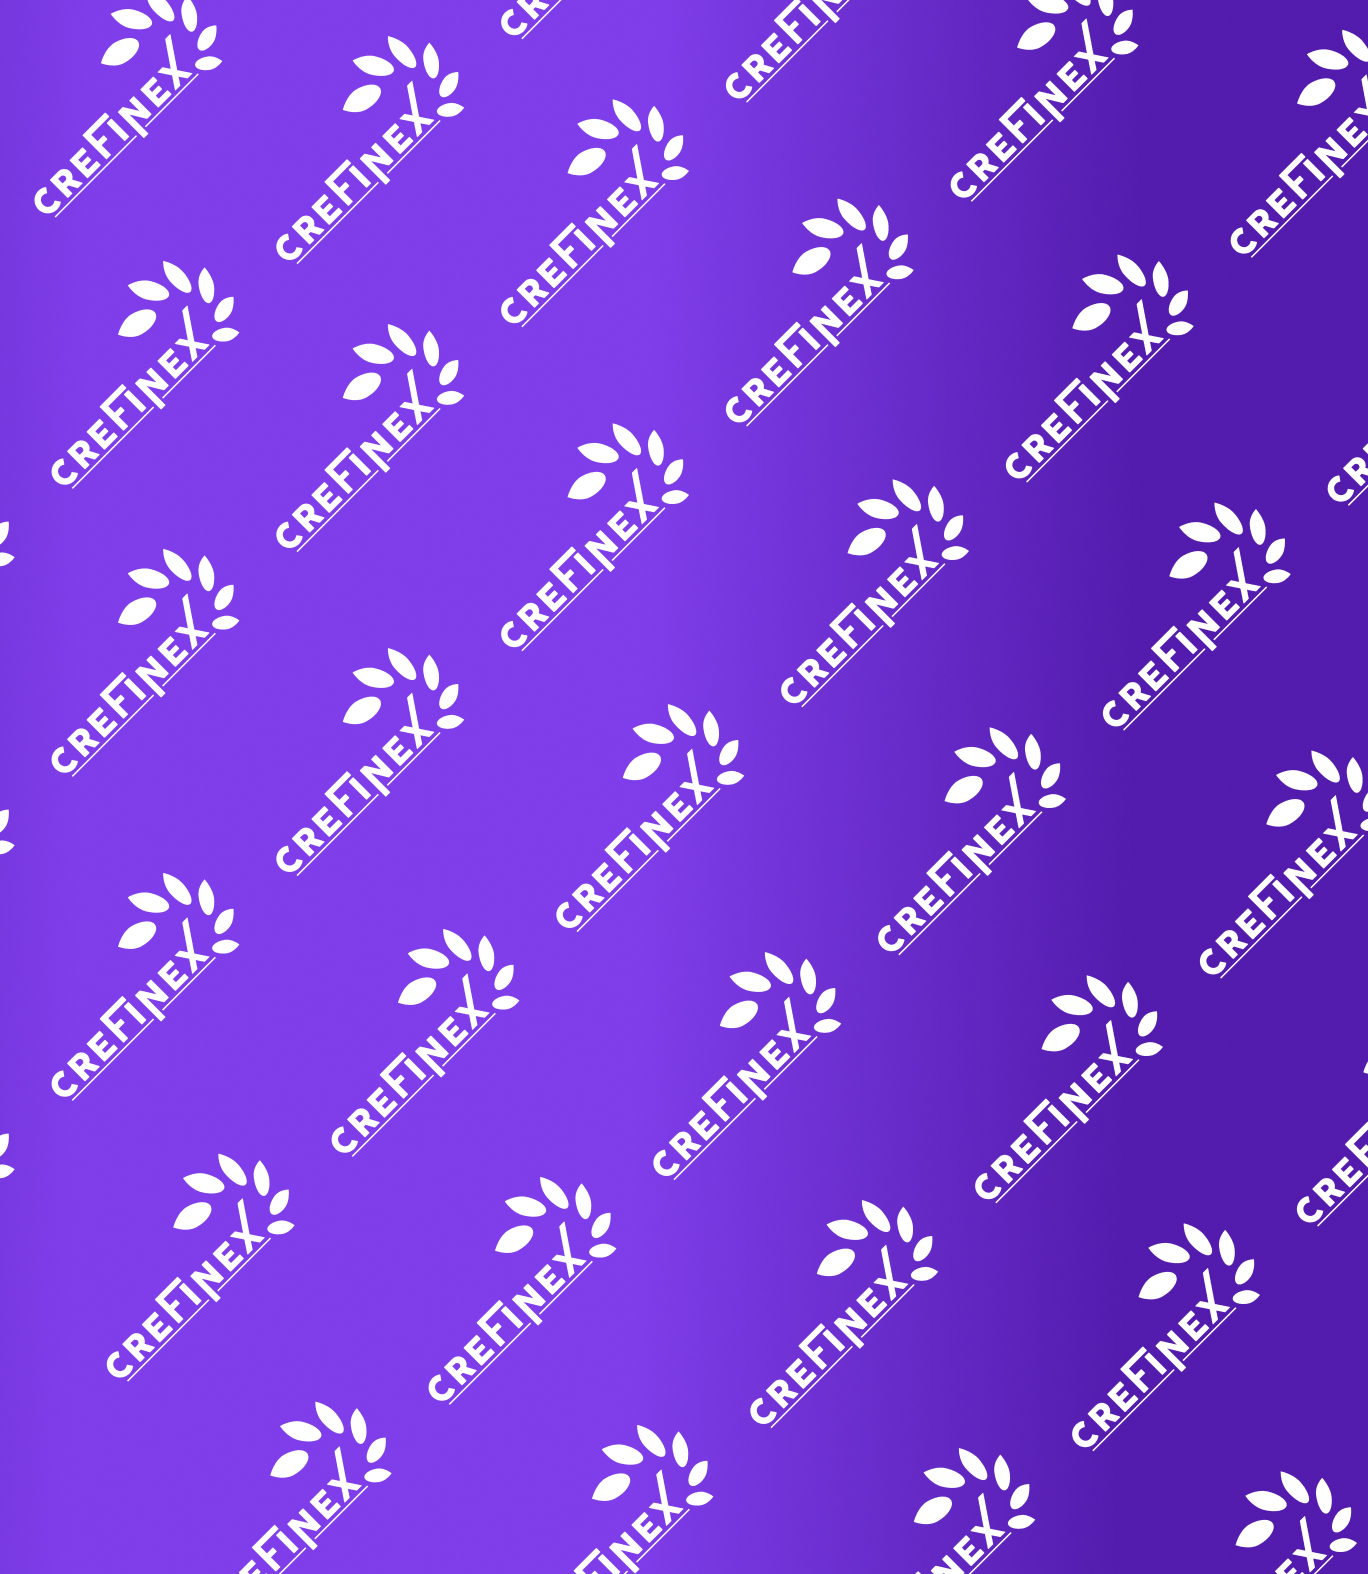
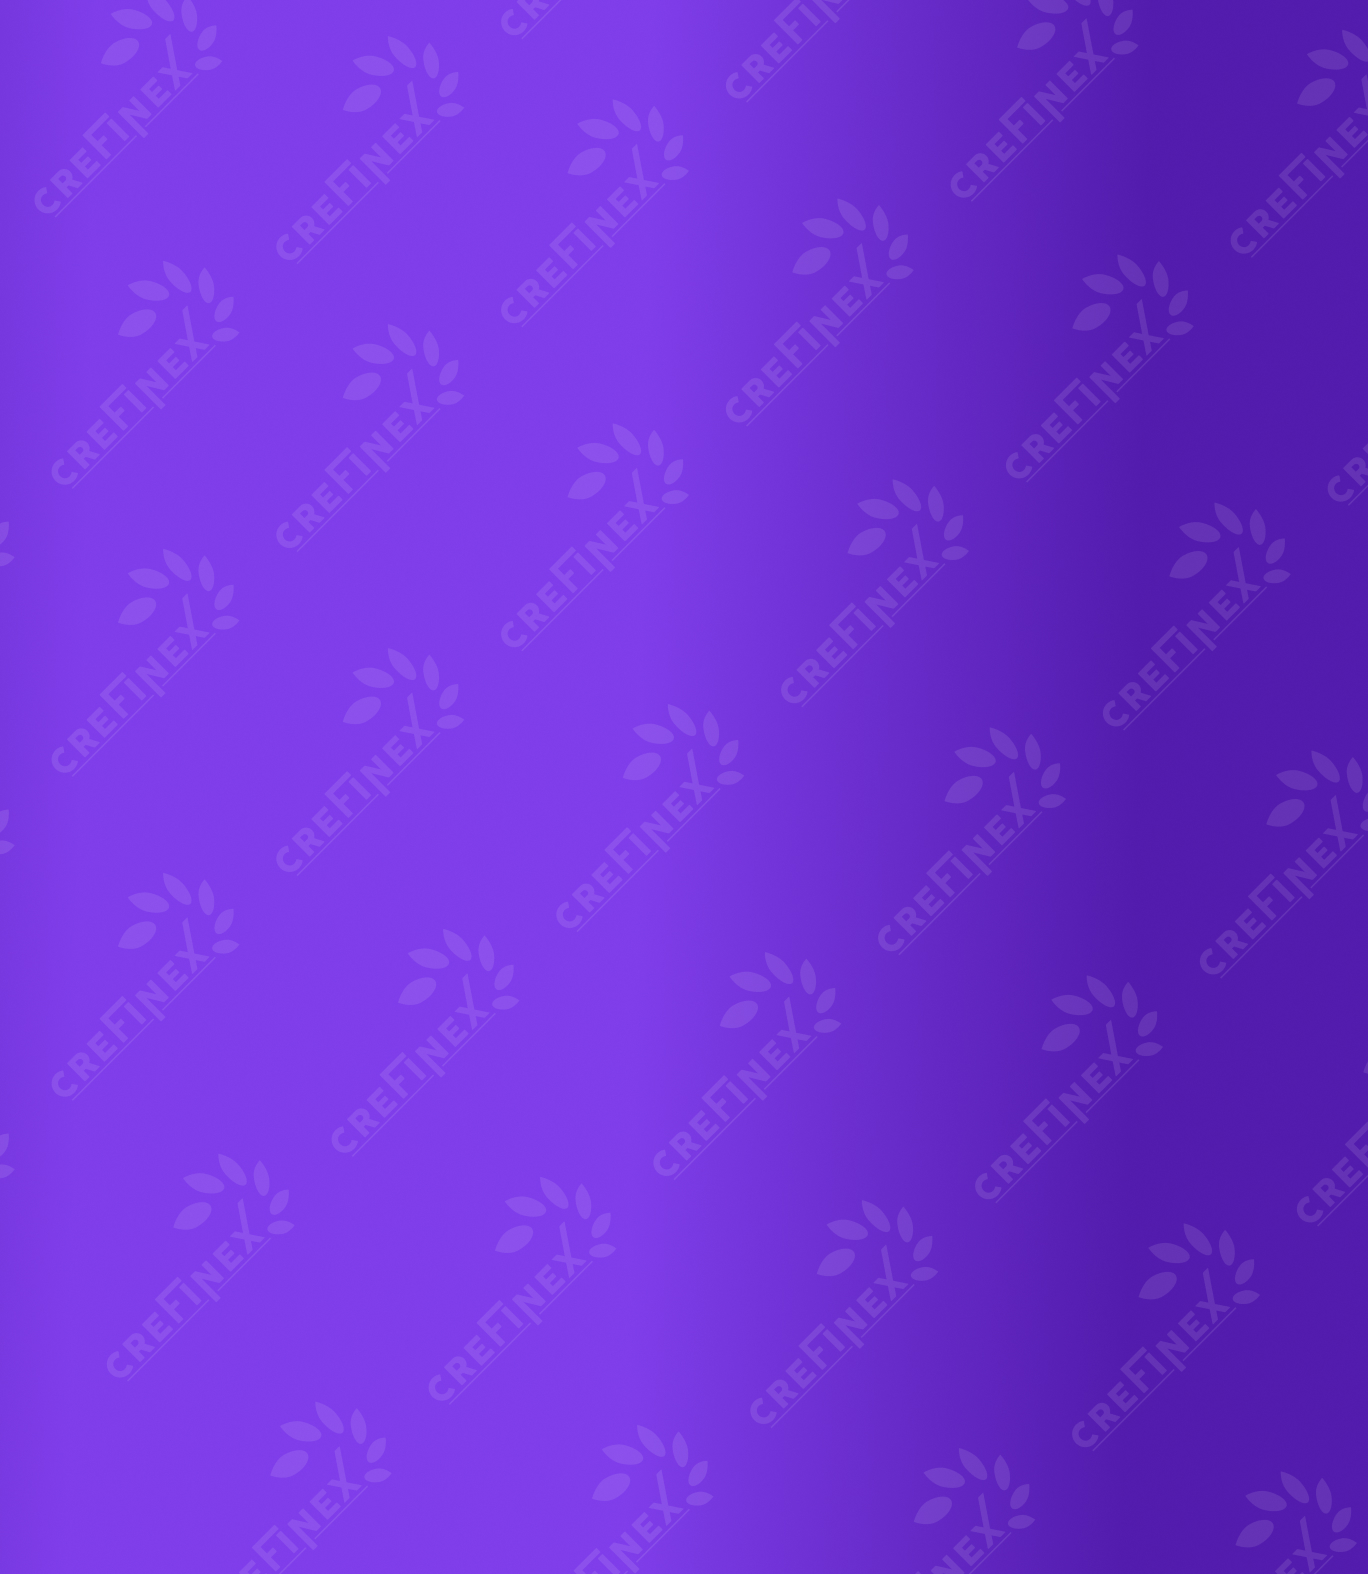
Animations Added

diff --git a/client/src/components/Sections/Animation/SectionAnimation.jsx b/client/src/components/Sections/Animation/SectionAnimation.jsx
@@ -1,7 +1,63 @@
-import React from "react";
+import React, { useRef } from "react";
 import "./SectionAnimation.css";
-function SectionAnimation() {
-  return <div className="section-animation"></div>;
+
+import {
+  motion,
+  useScroll,
+  useSpring,
+  useTransform,
+  useMotionValue,
+  useVelocity,
+  useAnimationFrame,
+} from "framer-motion";
+import { wrap } from "@motionone/utils";
+
+function SectionAnimation({ children, baseVelocity = 100 }) {
+  const baseX = useMotionValue(0);
+  const { scrollY } = useScroll();
+  const scrollVelocity = useVelocity(scrollY);
+  const smoothVelocity = useSpring(scrollVelocity, {
+    damping: 50,
+    stiffness: 400,
+  });
+  const velocityFactor = useTransform(smoothVelocity, [0, 1000], [0, 5], {
+    clamp: false,
+  });
+  /**
+   * This is a magic wrapping for the length of the text - you
+   * have to replace for wrapping that works for you or dynamically
+   * calculate
+   */
+  const x = useTransform(baseX, (v) => `${wrap(-20, -45, v)}%`);
+
+  const directionFactor = useRef(1);
+  useAnimationFrame((t, delta) => {
+    let moveBy = directionFactor.current * baseVelocity * (delta / 1000);
+
+    /**
+     * This is what changes the direction of the scroll once we
+     * switch scrolling directions.
+     */
+    if (velocityFactor.get() < 0) {
+      directionFactor.current = -1;
+    } else if (velocityFactor.get() > 0) {
+      directionFactor.current = 1;
+    }
+
+    moveBy += directionFactor.current * moveBy * velocityFactor.get();
+
+    baseX.set(baseX.get() + moveBy);
+  });
+  return (
+    <div className="parallax">
+      <motion.div className="scroller" style={{ x }}>
+        <span>{children} </span>
+        <span>{children} </span>
+        <span>{children} </span>
+        <span>{children} </span>
+      </motion.div>
+    </div>
+  );
 }
 
 export default SectionAnimation;

diff --git a/client/src/pages/Home/Home.css b/client/src/pages/Home/Home.css
@@ -1,3 +1,5 @@
+@import url("https://fonts.googleapis.com/css2?family=Righteous&display=swap");
+
 .home {
   display: flex;
   flex-direction: column;
@@ -5,10 +7,65 @@
   align-items: center;
   gap: 12rem;
 }
+section {
+  width: 100%;
+  display: flex;
+  flex-direction: column;
+  justify-content: center;
+  align-items: center;
+  position: relative;
+}
+.marquee-section {
+  /* -webkit-font-smoothing: antialiased;  */
+  height: 450px;
+  display: flex;
+  flex-direction: column;
+  justify-content: center;
+  align-items: center;
+  color: var(--base-white);
+  font-size: 3.5rem;
+  position: relative;
+  background-image: url("images/crefinex-stamps.jpg");
+  background-position: center;
+  background-repeat: no-repeat;
+  background-size: cover;
+  width: 100%;
+}
 
+.parallax {
+  overflow: hidden;
+  letter-spacing: 2px;
+  line-height: 0.8;
+  margin: 0;
+  white-space: nowrap;
+  display: flex;
+  flex-wrap: nowrap;
+}
 
+.parallax .scroller {
+  font-family: "Righteous";
+  font-weight: 600;
+  text-transform: uppercase;
+  font-size: 72px;
+  display: flex;
+  white-space: nowrap;
+  flex-wrap: nowrap;
+  width: 100%;
+}
+
+.parallax span {
+  display: block;
+  margin-bottom: 20px;
+  margin-right: 30px;
+}
 @media (max-width: 600px) {
   .home {
     gap: 8rem;
+  }
+  section {
+    background-size: 200%;
+  }
+  .parallax .scroller {
+    font-size: 42px;
   }
 }

diff --git a/client/src/components/Sections/Header/Header.jsx b/client/src/components/Sections/Header/Header.jsx
@@ -9,6 +9,7 @@ import PeopleRoundedBackground from "../../Decorations/PeopleRoundedBackground/P
 import { Button } from "../../Buttons/Button";
 import { TextField } from "../../TextFields/TextField";
 import { Confetti } from "../../Decorations/Confetti/Confetti";
+import InViewEffect from "../../Decorations/InViewEffect/InViewEffect";
 
 //Icons
 import { ArrowCircleRight, Sms } from "iconsax-react";
@@ -74,11 +75,19 @@ function Header() {
         size="36px"
       />
       <div className="hero">
-        <h1>
-          Mejora el futuro <span className="red">financiero</span> de tus{" "}
-          <span className="blue">hijos</span> con nosotros.
-        </h1>
-        <p className="body-large">{description}</p>
+        <InViewEffect>
+          <h1>
+            Mejora el futuro <span className="red">financiero</span> de tus{" "}
+            <span className="blue">hijos</span> con nosotros.
+          </h1>
+        </InViewEffect>
+        <InViewEffect>
+          <p className="body-large">
+            ¡Aprender finanzas nunca fue tan divertido! Únete a Crefinex y
+            enseña a tus hijos habilidades financieras que les durarán toda la
+            vida.
+          </p>
+        </InViewEffect>
         <div className="actions-container">
           <TextField type="text" leftIcon={<Sms variant="Bold" />} />
           <Button

diff --git a/client/src/components/Sections/Courses/SectionCourses.jsx b/client/src/components/Sections/Courses/SectionCourses.jsx
@@ -1,22 +1,25 @@
 import React, { useEffect, useState } from "react";
 import Carousel from "../../Carousel/Carousel";
 import Button from "../../Buttons/Button";
+import InViewEffect from "../../Decorations/InViewEffect/InViewEffect";
 
 import "./SectionCourses.css";
 
 function SectionCourses() {
   return (
     <div className="section-courses">
-      <div className="copys-container">
-        <h2>
-          Explora nuestros <span className="red">cursos</span>
-        </h2>
-        <p className="body-large">
-          Ofrecemos cursos para niños que les enseñen habilidades financieras
-          clave, como presupuestar, ahorrar y administrar el dinero de manera
-          responsable.
-        </p>
-      </div>
+      <InViewEffect>
+        <div className="copys-container">
+          <h2>
+            Explora nuestros <span className="red">cursos</span>
+          </h2>
+          <p className="body-large">
+            Ofrecemos cursos para niños que les enseñen habilidades financieras
+            clave, como presupuestar, ahorrar y administrar el dinero de manera
+            responsable.
+          </p>
+        </div>
+      </InViewEffect>
       <Carousel />
       <Button text="Ver todos" />
     </div>

diff --git a/client/src/components/Sections/Header/Header.css b/client/src/components/Sections/Header/Header.css
@@ -2,7 +2,6 @@ header,
 .hero {
   display: flex;
   flex-direction: column;
-
 }
 header {
   margin-top: 72px;
@@ -11,7 +10,6 @@ header {
   position: relative;
   max-width: 1248px;
   /* overflow-x: hidden; */
-
 }
 .hero {
   margin: 0 auto;
@@ -45,12 +43,11 @@ header {
   }
   .people2 {
     left: 50% !important;
-    transform: translate(-50%, 0%) !important;
   }
 }
 
 @media (max-width: 768px) {
-  header{
+  header {
     margin-top: 124px;
     gap: 96px;
   }
@@ -66,10 +63,9 @@ header {
     left: -32px !important;
     scale: 0.9 !important;
     bottom: -100px !important;
-
   }
   .people2 {
-    left: 85% !important;
+    left: 55% !important;
     scale: 0.9 !important;
     bottom: -100px !important;
   }

diff --git a/client/src/pages/Home/Home.jsx b/client/src/pages/Home/Home.jsx
@@ -16,11 +16,18 @@ function Home() {
     <div className="home">
       <Navbar />
       <Header />
-      <SectionAnimation />
+      <section className="marquee-section">
+        <SectionAnimation baseVelocity={-1}>
+          Creciendo Financiera-mente Exitosos Creciendo Financiera-mente
+          Exitosos
+        </SectionAnimation>
+        <SectionAnimation baseVelocity={1}>
+          Educación Financiera Educación Financiera Educación Financiera
+        </SectionAnimation>
+      </section>
       <SectionCourses />
       {/* <SectionEducation /> */}
       <SectionAboutUs />
-      <SectionAnimation />
       <SectionResources />
       <SectionLocation />
       <div style={{ width: "100%" }}>

diff --git a/client/src/components/Decorations/PeopleRoundedBackground/PeopleRoundedBackground.jsx b/client/src/components/Decorations/PeopleRoundedBackground/PeopleRoundedBackground.jsx
@@ -1,10 +1,21 @@
 import React from "react";
 import "./PeopleRoundedBackground.css";
+import { motion } from "framer-motion";
 function PeopleRoundedBackground(props) {
   return (
-    <div style={props.style} className={`people-container ${props.className}`}>
+    <motion.div
+      initial={{ opacity: 0, scale: 0.5 }}
+      animate={{ opacity: 1, scale: 1 }}
+      transition={{
+        duration: 0.8,
+        delay: 0.5,
+        ease: [0, 0.71, 0.2, 1.01],
+      }}
+      style={props.style}
+      className={`people-container ${props.className}`}
+    >
       <img src={props.src} alt={props.alt} />
-    </div>
+    </motion.div>
   );
 }
 

diff --git a/client/src/index.css b/client/src/index.css
@@ -13,7 +13,20 @@
   -moz-osx-font-smoothing: grayscale;
   -webkit-text-size-adjust: 100%;
 }
+::-webkit-scrollbar {
+  height: 5px;
+  width: 5px;
+  background-color: transparent;
+}
 
+::-webkit-scrollbar-thumb {
+  background: var(--primary-color);
+  -webkit-border-radius: 1ex;
+}
+
+::-webkit-scrollbar-corner {
+  background: var(--primary-color);
+}
 a {
   font-weight: 500;
   font-size: 1rem;
@@ -47,7 +60,6 @@ button:hover {
 }
 button:focus,
 button:focus-visible {
-  outline: 4px auto -webkit-focus-ring-color;
 }
 
 @media (prefers-color-scheme: light) {

diff --git a/client/src/components/Decorations/InViewEffect/InViewEffect.jsx b/client/src/components/Decorations/InViewEffect/InViewEffect.jsx
@@ -1,0 +1,22 @@
+import { useRef } from "react";
+import { useInView } from "framer-motion";
+
+function InViewEffect({ children }) {
+  const ref = useRef(null);
+  const isInView = useInView(ref, { once: true });
+
+  return (
+    <section ref={ref}>
+      <span
+        style={{
+          transform: isInView ? "none" : "translateX(-200px)",
+          opacity: isInView ? 1 : 0,
+          transition: "all 0.9s cubic-bezier(0.17, 0.55, 0.55, 1) 0.7s",
+        }}
+      >
+        {children}
+      </span>
+    </section>
+  );
+}
+export default InViewEffect;

diff --git a/client/src/components/Buttons/Button.jsx b/client/src/components/Buttons/Button.jsx
@@ -1,14 +1,19 @@
 import React from "react";
 import "./Button.css";
 import { Link } from "react-router-dom";
+import { motion } from "framer-motion";
 
 export function Button(props) {
   return (
-    <button>
+    <motion.button
+      whileHover={{ scale: 1.04 }}
+      whileTap={{ scale: 0.95 }}
+      className="button"
+    >
       {props.leftIcon ? <i>{props.leftIcon}</i> : ""}
       {props.text}
       {props.rightIcon ? <i>{props.rightIcon}</i> : ""}
-    </button>
+    </motion.button>
   );
 }
 export function ButtonLink(props) {

diff --git a/client/src/components/Buttons/Button.css b/client/src/components/Buttons/Button.css
@@ -1,4 +1,4 @@
-button {
+.button {
   background-color: var(--primary-color);
   display: flex;
   flex-direction: row;
@@ -7,7 +7,7 @@ button {
   align-items: center;
   gap: 20px;
 }
-button i {
+.button i {
   width: 24px;
   height: 24px;
 }

diff --git a/client/src/components/Card/Card.jsx b/client/src/components/Card/Card.jsx
@@ -1,5 +1,6 @@
 import React from "react";
 import "./Card.css";
+import { motion } from "framer-motion";
 function Card(props) {
   return (
     <div className="card">
